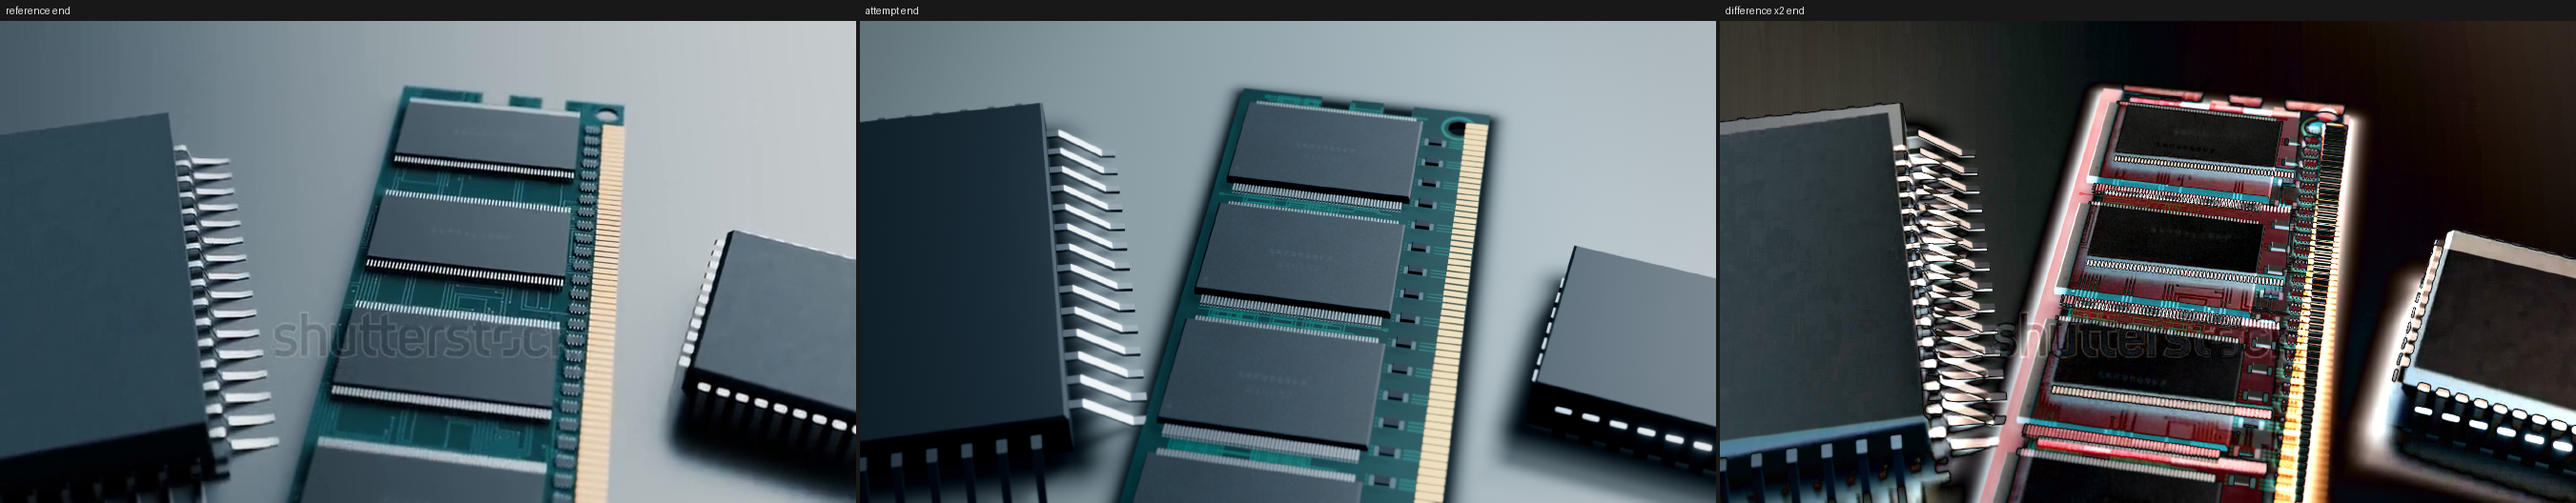
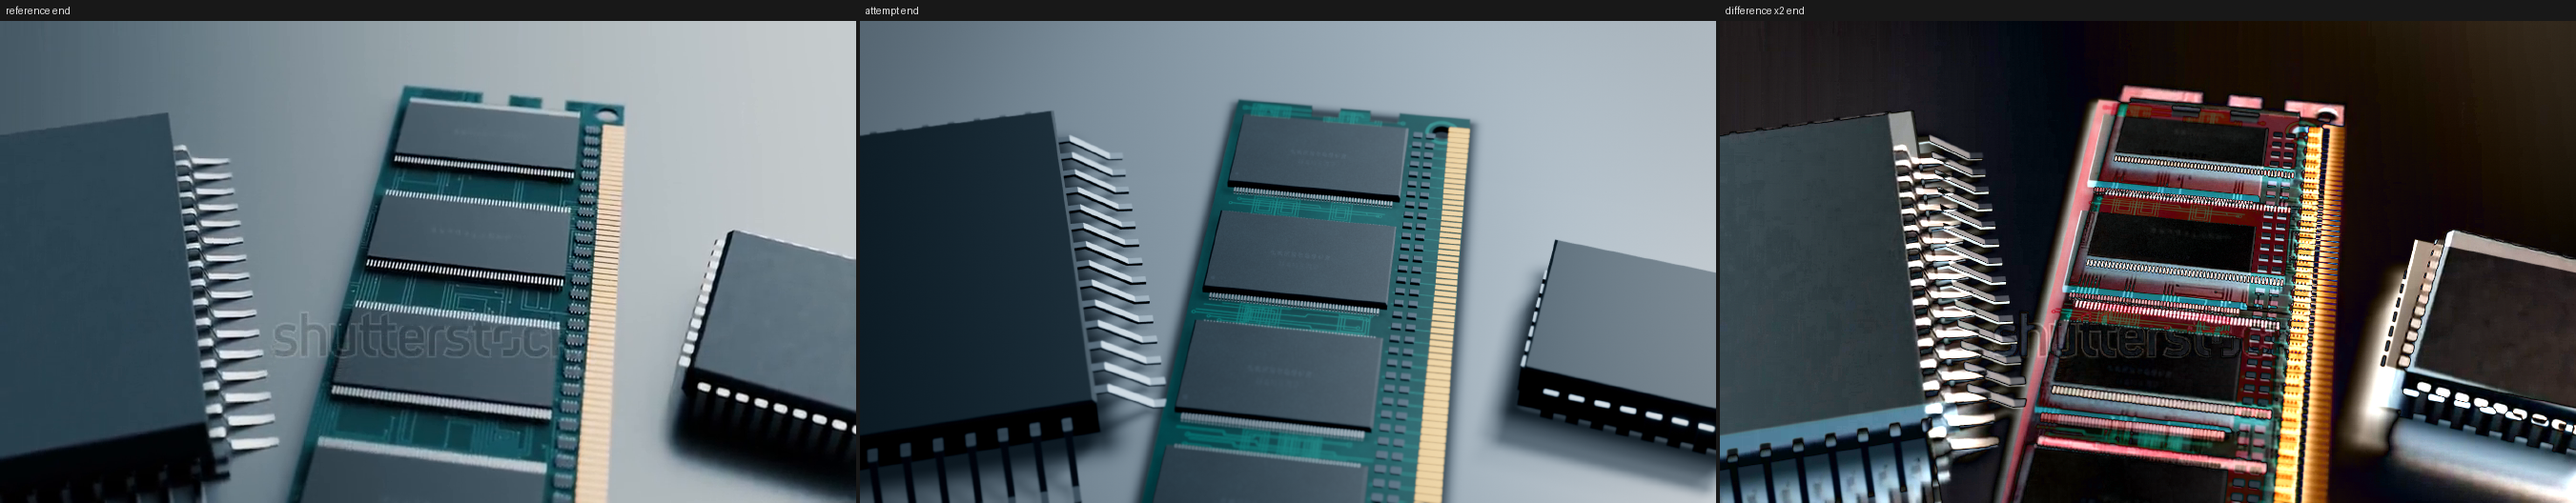
Chips: second batch of visual-match fixes
Lighter contact shadows, dimmer leads, board visible between chips,
double column of tiny side parts, camera eases back over the move.

Claude-Session: https://claude.ai/code/session_016jjL29YXQo89hH8jtpHEX7

Changed region(s): [[0.3109, 0.0303, 1.0, 1.0]]

diff --git a/memory-chips/src/config.ts b/memory-chips/src/config.ts
@@ -15,18 +15,18 @@ export const VIDEO = {
 export type Variant = "v1" | "v2";
 
 export const PALETTE = {
-  table: "#9aa3a2",
-  pcb: "#094443",
+  table: "#969ea2",
+  pcb: "#0b5350",
   pcbEdge: "#083b39",
-  trace: "#1f7a70",
+  trace: "#1f8076",
   pad: "#b4c0c2",
   chipBody: "#384347",
   chipMark: "#6f7f8a",
-  lead: "#b4bcc0",
-  pin: "#e6eaec",
+  lead: "#8f989d",
+  pin: "#d5dbde",
   smdPad: "#5f7578",
-  gold: "#c8a97c",
-  smd: "#2c383f",
+  gold: "#c49a68",
+  smd: "#5d6b72",
 } as const;
 
 /** The memory module. */
@@ -39,7 +39,7 @@ export const MODULE = {
   chipFirstY: 10.6,
   /** chips sit left of centre; the right edge carries the SMD column and the gold fingers */
   chipX: -3.4,
-  chipSize: [22.2, 14.2, 1.25],
+  chipSize: [22.2, 13.4, 1.25],
   pinsPerSide: 54,
   pinPitch: 0.38,
   fingerPitch: 1.0,
@@ -47,8 +47,10 @@ export const MODULE = {
   /** keying slot in the finger edge, between chips 3 and 4 */
   keySlotY: 57.6,
   keySlotSize: [3.2, 1.9],
-  smdX: 9.6,
-  smdPitch: 3.72,
+  /** two columns of tiny parts beside the fingers */
+  smdX: [9.0, 10.7] as [number, number],
+  smdPitch: 1.9,
+  smdSize: [1.15, 0.85, 0.45] as [number, number, number],
 } as const;
 
 export type PackageKind = "dip" | "soic" | "qfp" | "plcc";
@@ -63,9 +65,9 @@ export const PACKAGES: {
   leadsPerSide: number;
 }[] = [
   { kind: "dip", x: -57, y: 21, rotDeg: 8.5, size: [15, 42, 5], leadsPerSide: 8 },
-  { kind: "soic", x: -29, y: 26, rotDeg: 8, size: [13.5, 19, 7.5], leadsPerSide: 4 },
-  { kind: "dip", x: 34.3, y: 27.2, rotDeg: 18.5, size: [13, 42, 5.5], leadsPerSide: 8 },
-  { kind: "qfp", x: -54.7, y: 88, rotDeg: 19, size: [52, 49.5, 6], leadsPerSide: 14 },
+  { kind: "soic", x: -31, y: 25, rotDeg: 8, size: [13.5, 19, 6], leadsPerSide: 4 },
+  { kind: "dip", x: 33.4, y: 30, rotDeg: 18.5, size: [13, 36, 5.5], leadsPerSide: 7 },
+  { kind: "qfp", x: -54.7, y: 89.5, rotDeg: 19, size: [52, 49.5, 6], leadsPerSide: 14 },
   { kind: "plcc", x: 37, y: 93.5, rotDeg: -9, size: [24, 21, 7], leadsPerSide: 7 },
 ];
 
@@ -75,7 +77,7 @@ export type Key3 = [number, number, number];
 export type CameraRig = {
   fovDeg: number;
   /** camera-to-ground distance along the optical axis */
-  distance: number;
+  distance: Key3;
   /** look-down angle below the horizon, degrees */
   elevationDeg: Key3;
   /** heading relative to the module axis, degrees (positive = module leans right on screen) */
@@ -97,9 +99,9 @@ export type CameraRig = {
 export const CAMERAS: Record<Variant, CameraRig> = {
   v1: {
     fovDeg: 17.86,
-    distance: 178,
+    distance: [178, 187, 190],
     elevationDeg: [37, 46, 46],
-    yawDeg: [7, 9.2, 9.7],
+    yawDeg: [7, 7.6, 7.6],
     rollDeg: [0, 0, 0],
     lookX: [-8, -6.7, -5.2],
     lookY: [21.9, 63.1, 104.7],
@@ -107,7 +109,7 @@ export const CAMERAS: Record<Variant, CameraRig> = {
   },
   v2: {
     fovDeg: 17.86,
-    distance: 178,
+    distance: [178, 187, 190],
     elevationDeg: [80, 80, 80],
     yawDeg: [0, 0, 0],
     rollDeg: [0, 0, 0],

diff --git a/memory-chips/src/scene/pcbTexture.ts b/memory-chips/src/scene/pcbTexture.ts
@@ -59,8 +59,8 @@ export const buildPcbTexture = (): THREE.CanvasTexture => {
 
   // traces in the gaps before, between and after the chips
   for (let g = 0; g <= MODULE.chips; g++) {
-    const y0 = g === 0 ? 1.0 : chipCentreY(g - 1) + cd / 2 + 1.5;
-    const y1 = g === MODULE.chips ? MODULE.length - 1.0 : chipCentreY(g) - cd / 2 - 1.5;
+    const y0 = g === 0 ? 1.0 : chipCentreY(g - 1) + cd / 2 + 1.0;
+    const y1 = g === MODULE.chips ? MODULE.length - 1.0 : chipCentreY(g) - cd / 2 - 1.0;
     if (y1 - y0 < 0.6) continue;
     const lanes = Math.max(2, Math.floor((y1 - y0) / 0.42));
     // long buses with jogs
@@ -84,7 +84,7 @@ export const buildPcbTexture = (): THREE.CanvasTexture => {
       if (rnd() < 0.5) via(pts[pts.length - 1][0], pts[pts.length - 1][1]);
     }
     // a few nested rectangles (matched-length meanders) per gap
-    const boxes = Math.floor(range(rnd, 4, 9));
+    const boxes = Math.floor(range(rnd, 3, 6));
     for (let b = 0; b < boxes; b++) {
       const bx = chipL + range(rnd, 1, cw - 5);
       const bw = range(rnd, 2.2, 4.2);
@@ -102,23 +102,18 @@ export const buildPcbTexture = (): THREE.CanvasTexture => {
   const pinSpan = (MODULE.pinsPerSide - 1) * MODULE.pinPitch;
   for (let k = 0; k < MODULE.chips; k++) {
     for (const side of [-1, 1]) {
-      const y = chipCentreY(k) + side * (cd / 2 + 0.75);
+      const y = chipCentreY(k) + side * (cd / 2 + 0.45);
       for (let p = 0; p < MODULE.pinsPerSide; p++) {
         const x = MODULE.chipX - pinSpan / 2 + p * MODULE.pinPitch;
-        c.fillRect(px(x - 0.11), py(y + 0.55), 0.22 * S, 1.1 * S);
+        c.fillRect(px(x - 0.11), py(y + 0.38), 0.22 * S, 0.76 * S);
       }
     }
   }
-  // pads + short traces for the SMD column next to the fingers
-  for (let y = 4; y < MODULE.length - 4; y += MODULE.smdPitch) {
-    if (Math.abs(y - MODULE.keySlotY) < 3.2) continue;
-    c.fillStyle = PALETTE.smdPad;
-    c.fillRect(px(MODULE.smdX - 1.3), py(y + 0.55), 0.45 * S, 1.1 * S);
-    c.fillRect(px(MODULE.smdX + 0.85), py(y + 0.55), 0.45 * S, 1.1 * S);
-    for (let j = -1; j <= 1; j++) {
-      trace([[MODULE.smdX + 1.75, y + j * 0.5], [MODULE.width / 2 - MODULE.fingerLength - 0.2, y + j * 0.5]], 0.12);
-      trace([[chipR + 0.4, y + j * 0.5], [MODULE.smdX - 1.75, y + j * 0.5]], 0.12);
-    }
+  // short traces from the two columns of tiny parts to the fingers and to the chips
+  for (let y = 3.2; y < MODULE.length - 3.2; y += MODULE.smdPitch) {
+    if (Math.abs(y - MODULE.keySlotY) < 3.0) continue;
+    trace([[MODULE.smdX[1] + 0.6, y], [MODULE.width / 2 - MODULE.fingerLength - 0.2, y]], 0.1);
+    if (rnd() < 0.5) trace([[chipR + 0.4, y], [MODULE.smdX[0] - 0.6, y]], 0.1);
   }
   // ring around each mounting hole
   for (const hy of [3.4, MODULE.length - 3.4]) {

diff --git a/memory-chips/src/scene/chipsWorld.ts b/memory-chips/src/scene/chipsWorld.ts
@@ -286,8 +286,8 @@ export const buildChipsWorld = (): World => {
     mesh.renderOrder = 1;
     root.add(mesh);
   };
-  addContact(0, MODULE.length / 2, MODULE.width, MODULE.length, 0, 4.5);
-  for (const pk of PACKAGES) addContact(pk.x, pk.y, pk.size[0], pk.size[1], pk.rotDeg, pk.kind === "plcc" ? 7 : 9);
+  addContact(0, MODULE.length / 2, MODULE.width, MODULE.length, 0, 3);
+  for (const pk of PACKAGES) addContact(pk.x, pk.y, pk.size[0], pk.size[1], pk.rotDeg, pk.kind === "plcc" ? 5 : 6);
 
   // ---- circuit board: outline with end notches, keying slot and two holes ------------
   const W = MODULE.width;
@@ -347,7 +347,7 @@ export const buildChipsWorld = (): World => {
   chips.frustumCulled = false;
   root.add(chips);
 
-  const pinGeo = keep(new THREE.BoxGeometry(0.2, 0.3, 1.35));
+  const pinGeo = keep(new THREE.BoxGeometry(0.2, 0.3, 0.85));
   const pinMat = keep(new THREE.MeshStandardMaterial({ color: PALETTE.pin, roughness: 0.25, metalness: 1 }));
   const pins = new THREE.InstancedMesh(pinGeo, pinMat, MODULE.chips * MODULE.pinsPerSide * 2);
   const pinSpan = (MODULE.pinsPerSide - 1) * MODULE.pinPitch;
@@ -358,7 +358,7 @@ export const buildChipsWorld = (): World => {
         m.makeTranslation(
           MODULE.chipX - pinSpan / 2 + p * MODULE.pinPitch,
           top + 0.17,
-          -(chipCentreY(k) + side * (cd / 2 + 0.55)),
+          -(chipCentreY(k) + side * (cd / 2 + 0.32)),
         );
         pins.setMatrixAt(pi++, m);
       }
@@ -386,15 +386,16 @@ export const buildChipsWorld = (): World => {
   root.add(fingers);
 
   // ---- column of small surface-mount parts beside the fingers ----------------------------
-  const smdYs: number[] = [];
-  for (let y = 4; y < L - 4; y += MODULE.smdPitch) {
-    if (Math.abs(y - MODULE.keySlotY) < 3.2) continue;
-    smdYs.push(y);
+  const smdSpots: [number, number][] = [];
+  for (let y = 3.2; y < L - 3.2; y += MODULE.smdPitch) {
+    if (Math.abs(y - MODULE.keySlotY) < 3.0) continue;
+    for (const x of MODULE.smdX) smdSpots.push([x, y]);
   }
-  const smdGeo = keep(chamferBox(1.7, 1.15, 0.5, 0.1));
-  const smd = new THREE.InstancedMesh(smdGeo, smdMat, smdYs.length);
-  smdYs.forEach((y, i) => {
-    m.makeTranslation(MODULE.smdX, top, -y);
+  const [sw, sd, sh] = MODULE.smdSize;
+  const smdGeo = keep(chamferBox(sw, sd, sh, 0.08));
+  const smd = new THREE.InstancedMesh(smdGeo, smdMat, smdSpots.length);
+  smdSpots.forEach(([x, y], i) => {
+    m.makeTranslation(x, top, -y);
     smd.setMatrixAt(i, m);
   });
   smd.castShadow = true;

diff --git a/memory-chips/src/look.ts b/memory-chips/src/look.ts
@@ -22,12 +22,12 @@ export const LIGHT = {
     /** sideways drift of the aim point per millimetre along the strip (negative = far end aims further left) */
     aimSkew: -0.45,
     /** cone half-angle (radians): the soft cone edge is what darkens the left of the table */
-    coneAngle: 0.26,
+    coneAngle: 0.245,
     samples: 8,
     shadowMapSize: 2048,
   },
   /** darkness of the soft contact-shadow decals under the parts (0..1) */
-  contactShadow: 0.9,
+  contactShadow: 0.7,
   /** studio environment for reflections and a little fill */
   env: {
     intensity: 0.3,
@@ -47,7 +47,7 @@ export const SURFACE = {
   /** the loose packages are a duller plastic than the memory chips */
   packageIor: 1.5,
   packageRoughness: 0.5,
-  leadRoughness: 0.28,
+  leadRoughness: 0.4,
   goldRoughness: 0.5,
 } as const;
 
@@ -55,7 +55,7 @@ export const LENS: LensSettings = {
   near: 20,
   far: 3000,
   msaa: 4,
-  dof: { enabled: true, focusRange: 46, bokehScale: 4.6, resolutionScale: 0.5 },
+  dof: { enabled: true, focusRange: 42, bokehScale: 5.0, resolutionScale: 0.5 },
   motionBlur: { enabled: true, shutter: 0.5, taps: 9 },
   bloom: { enabled: true, threshold: 0.7, smoothing: 0.25, intensity: 0.5, radius: 0.7, levels: 6 },
 };

diff --git a/memory-chips/src/scene/camera.ts b/memory-chips/src/scene/camera.ts
@@ -22,17 +22,18 @@ const pathFor = (variant: Variant): CameraPath => {
     // heading on the ground, rotated left of the module axis by `yaw`
     const hx = -Math.sin(yaw);
     const hy = Math.cos(yaw);
-    const back = rig.distance * Math.cos(el);
+    const dist = mix(rig.distance, t);
+    const back = dist * Math.cos(el);
     const cx = gx - hx * back;
     const cy = gy - hy * back;
-    const ch = rig.distance * Math.sin(el);
+    const ch = dist * Math.sin(el);
     // module (x, y, height) -> world (x, height, -y)
     return {
       position: [cx, ch, -cy],
       target: [gx, 0, -gy],
       rollDeg: mix(rig.rollDeg, t),
       fovDeg: rig.fovDeg,
-      focusDistance: rig.distance * rig.focusBias,
+      focusDistance: dist * rig.focusBias,
     };
   };
 };
